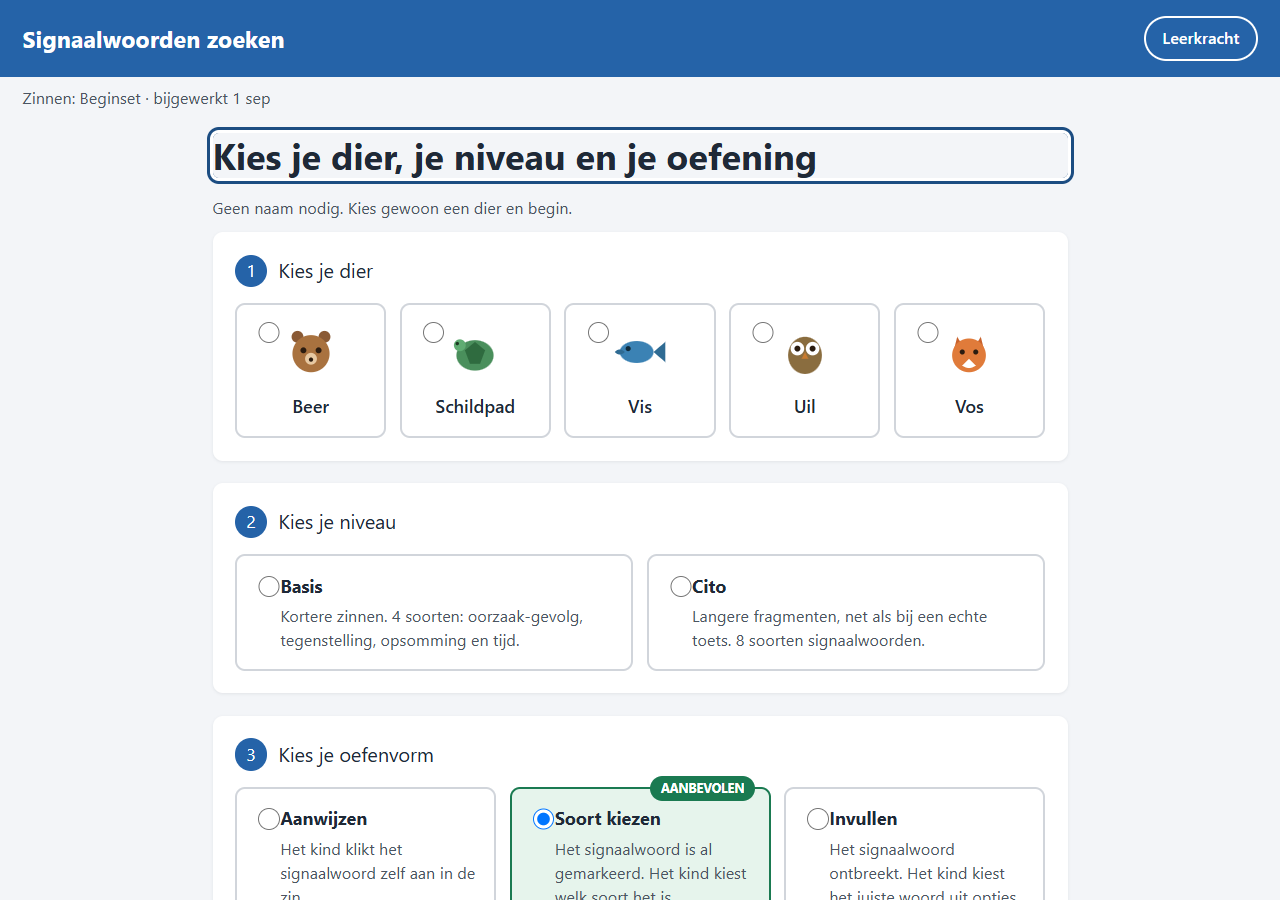
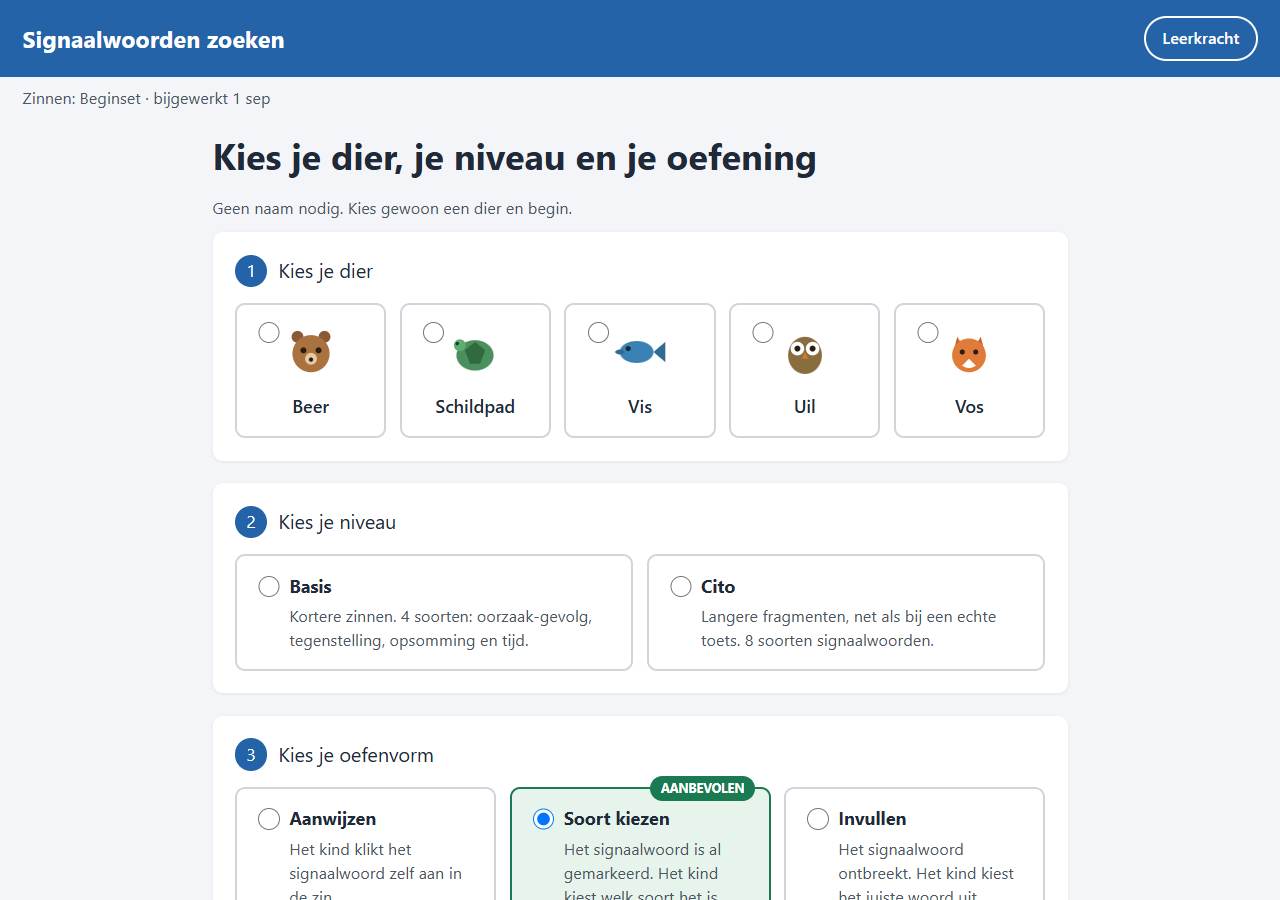
Bump version to 1.1.0 and regenerate screenshots
VERSIE bumped in js/versie.js and sw.js (round-1 fixes touch most
app/ files). Screenshots regenerated with tools/screenshots.mjs; they
now show the score-dependent result greeting, the level-card spacing
fix, and no stray focus ring on the Start heading.

diff --git a/app/sw.js b/app/sw.js
@@ -1,7 +1,7 @@
 // Klassieke (niet-module) service worker: cachet de app-bestanden zodat alles ook
 // zonder internet werkt, en zodat de app blijft werken als onze eigen website plat ligt.
 // VERSIE moet gelijk zijn aan js/versie.js (bewaakt door tests/unit/sw.test.mjs).
-const VERSIE = '1.0.0';
+const VERSIE = '1.1.0';
 const CACHE_NAAM = `signaalwoorden-${VERSIE}`;
 
 // Exact de bestanden onder app/ (plus './' voor de map zelf). Bij elke wijziging aan

diff --git a/app/js/versie.js b/app/js/versie.js
@@ -1,4 +1,4 @@
 // Eén plek voor het versienummer. sw.js heeft dezelfde string (los gehouden
 // omdat een service worker geen ES-module-import van buiten zijn eigen script mag doen
 // zonder extra complexiteit); sw.test.mjs bewaakt dat ze gelijk blijven.
-export const VERSIE = '1.0.0';
+export const VERSIE = '1.1.0';
